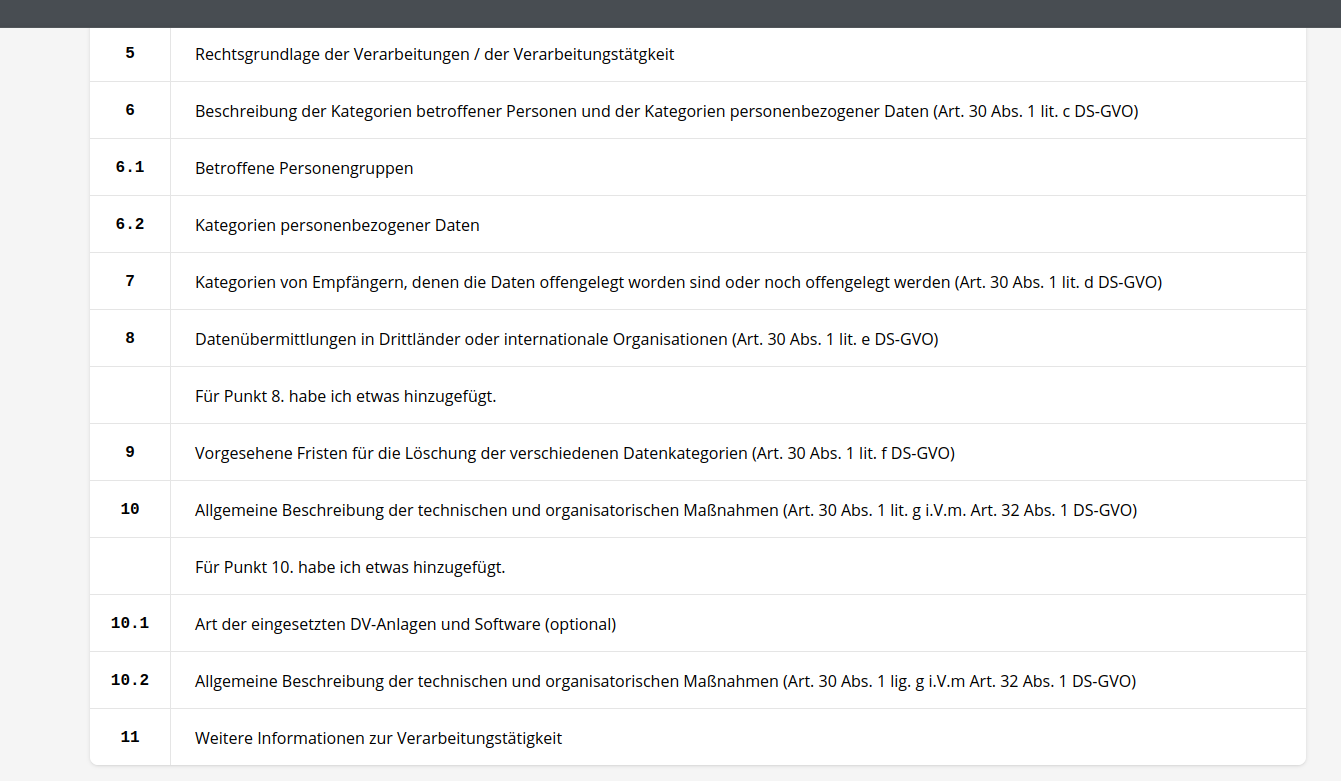
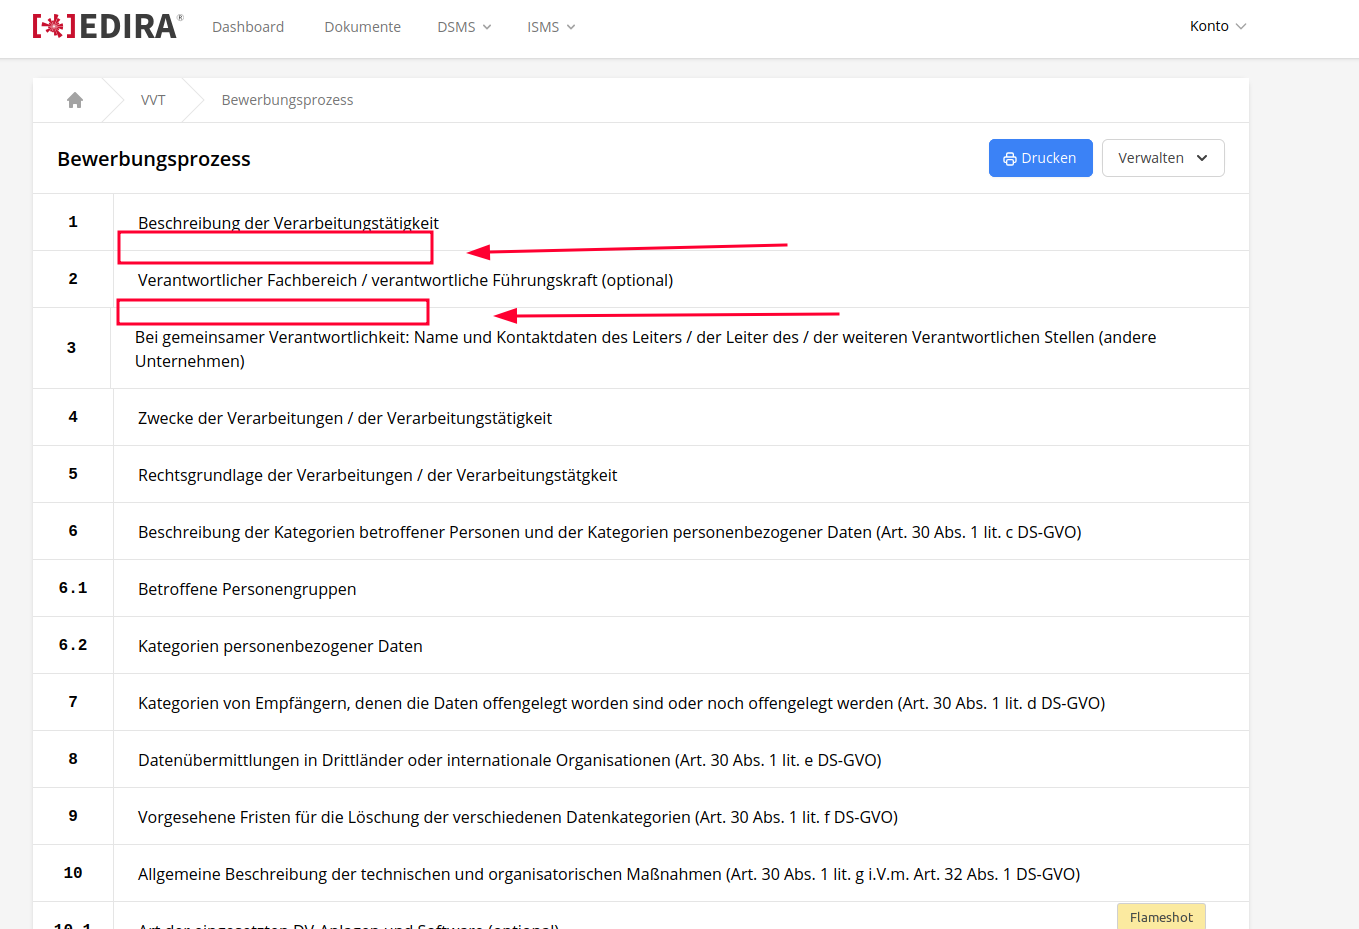
Issue 383 docs draft

diff --git a/src/edira/project-breakdown/docs/structure.md b/src/edira/project-breakdown/docs/structure.md
@@ -1,0 +1,138 @@
+# Edira Project Directory Structure
+```
+
+├── EDIRA/
+│   ├── app/                  # Contains all application-specific code
+│   │   ├── Actions/
+│   │   │   ├── Assessments/  
+│   │   │   ├── Auth/     
+│   │   │   ├── Images/
+│   │   │   ├── Iso/  
+│   │   │   ├── ItGrundschutz/     
+│   │   │   ├── Nis/  
+│   │   │   ├── Privacyreport/  
+│   │   │   ├── Soa/     
+│   │   │   ├── Tisax/ 
+│   │   │   ├── Vvt/         
+│   │   │   └── ...
+│   │   ├── Console/
+│   │   │   ├── Commands/         
+│   │   │   └── ...
+│   │   ├── Exceptions/
+│   │   │   └── ...
+│   │   ├── Helpers/
+│   │   │   └── ...
+│   │   ├── Http/
+│   │   │   ├── Controllers/  # Stores PHP controllers for routing and handling requests
+│   │   │   │   ├── Admin/
+│   │   │   │   ├── Auth/
+│   │   │   │   ├── Company/     
+│   │   │   │   ├── Export/    
+│   │   │   │   ├── Nis/         
+│   │   │   │   └── ...
+│   │   │   ├── Livewire/     # Stores Livewire components using the LivewireController trait
+│   │   │   │   ├── Admin/
+│   │   │   │   ├── Assessments/  
+│   │   │   │   ├── Auth/
+│   │   │   │   ├── Company/     
+│   │   │   │   ├── Documents/
+│   │   │   │   ├── Iso/  
+│   │   │   │   ├── ItGrundschutz/     
+│   │   │   │   ├── Nis/  
+│   │   │   │   ├── Privacyreport/  
+│   │   │   │   ├── Soa/
+│   │   │   │   ├── Settings/     
+│   │   │   │   ├── Tisax/ 
+│   │   │   │   ├── Vvt/         
+│   │   │   │   └── ...
+│   │   │   ├── Middleware/       # Stores Eloquent models for database operations
+│   │   │   │   └── ...
+│   │   │   └── ...
+│   │   ├── Listeners/
+│   │   │   └── ...
+│   │   ├── Livewire/
+│   │   │   └── Forms/   # Stores Livewire components as PHP classes (e.g., File: `MyComponent.php`)
+│   │   │       ├── Admin/
+│   │   │       └── Nis/  
+│   │   ├── Mail/
+│   │   │   ├── Nis/
+│   │   │   └── ...
+│   │   ├── Models/
+│   │   │   ├── Assessments/  
+│   │   │   ├── Iso/  
+│   │   │   ├── ItGrundschutz/     
+│   │   │   ├── Nis/
+│   │   │   ├── NisDvo/  
+│   │   │   ├── Privacyreport/  
+│   │   │   ├── Soa/     
+│   │   │   ├── Tisax/ 
+│   │   │   ├── Vvt/
+│   │   │   └── ...  
+│   │   ├── Notifications/
+│   │   │   └── ...
+│   │   ├── Policies/
+│   │   │   └── ...
+│   │   ├── Providers/
+│   │   │   └── ...
+│   │   ├── Rules/
+│   │   │   └── ...
+│   │   ├── Scopes/
+│   │   │   └── ...
+│   │   ├── Traits/
+│   │   │   ├── Livewire/     
+│   │   │   ├── Models/ 
+│   │   │   ├── Testing/
+│   │   │   └── ... 
+│   │   ├── View/
+│   │   │   ├── Charts/     
+│   │   │   ├── Layouts/ 
+│   │   │   ├── Nav/
+│   │   │   └── ... 
+│   ├── bootstrap/
+│   │   ├── cache/         
+│   │   └── ...
+│   ├── config/               # Contains application configuration files
+│   │   └── ...
+│   ├── database/             # Contains database-related files
+│   │   ├── diagrams/
+│   │   ├── factories/
+│   │   ├── migrations/
+│   │   ├── seeders/
+│   │   ├── sql/
+│   │   └── ...
+│   ├── docker/
+│   ├── overlay/
+│   ├── public/               # Contains public-facing files and directories
+│   │   ├── index.php         # The entry point of your Laravel application
+│   │   └── ...
+│   ├── resources/            # Contains assets such as CSS, JavaScript, and view files
+│   │   ├── css/
+│   │   ├── js/
+│   │   ├── lang/
+│   │   │   ├── de/ 
+│   │   │   ├── en/
+│   │   │   └── ... 
+│   │   ├── views/
+│   │   │   ├── admin/
+│   │   │   ├── auth/
+│   │   │   ├── company/  
+│   │   │   ├── components/     
+│   │   │   ├── emails/
+│   │   │   ├── layouts/  
+│   │   │   ├── livewire/     
+│   │   │   ├── nis/  
+│   │   │   ├── pdf/  
+│   │   │   ├── vendor/
+│   │   │   ├── vvtTemplates/             
+│   │   │   └── ...
+│   │   └── ...
+│   ├── routes/               # Contains route definitions for web, API, and WebSockets
+│   │   └── ...
+│   ├── storage/              # Contains application files generated during runtime
+│   │   └── ...
+│   ├── tests/                # Contains application test cases and suites for unit testing
+│   │   ├── Feature/
+│   │   ├── Unit/
+│   │   └── ...
+│   └── ...
+```

diff --git a/src/edira/issue-383/docs/documentation.md b/src/edira/issue-383/docs/documentation.md
@@ -3,3 +3,86 @@
 [Git Issue 383](https://work-documentation.jroedel-work.gitlab.io/)
 
 ## Breakdown 
+
+Auf der Übersichtsseite eines spezifischens VVT sind nur die generischen Überschriften der zu bearbeitenen Punkte sichtbar. Da diese gleich bei unterschiedlichen VVTs sind, ist gewünscht die bereits bearbeiteten und eingefügten spezifischen Daten als Vorschau mit auf der Übersichtsseite mit anzuzeigen. Dies soll zu einer leichteren Suche, Prüfung und Vervollständigung der Einträge führen. 
+
+![image info](../src/img/1.png)
+
+!!! Info
+    Alte Version, rote Markierung zeigt an, an welchen Stellen Vorschau eingebaut werden soll
+
+![image info](../src/img/2.png)
+
+!!! Info
+    Der Inhalt der Seite für einen spezifischen Bearbeitungspunkt eines VVT, der auf der Übersichtsseite angezeigt werden soll.
+
+![image info](../src/img/3.png)
+
+!!! Info
+    Wie der Inhalt platziert werden soll.
+
+## Related Files
+
+```
+.
+├── app/
+│   ├── Http/                  
+│   │   ├── Livewire/
+│   │   │   ├── Vvt/
+│   │   │   │   └── View.php  
+├── resources/
+│   ├── views/                  
+│   │   ├── livewire/
+│   │   │   ├── vvt/
+│   │   │   │   └── view.blade.php  
+
+```
+
+
+
+
+## Solution
+
+1. Component:
+
+- vvt objekt wird bereits in Livewire Component created 
+- datenbank einträge aus table 'vvt_values' ist verfügbar zu jeweiligen vvt:
+- diese enthalten row_id, welches auf die zugehörige vvt row verweist
+
+`$this -> vvt -> values`
+
+- aktuell wird nur rows object an view weitergegeben, welches nur information über die aktuell dargestellten rows besitzt 
+- values von vvt als eigenes array an view weitergeben:
+
+```php
+public function render(): \Illuminate\Contracts\View\View
+{ 
+    return view('livewire.vvt.view', ['rows' => $this->rows], ['values' => $this -> vvt -> values])
+        ->layout('layouts.app', ['title' => 'VVT Bearbeiten']);
+}
+```
+
+2. View:
+
+- aktuell gibt es for each schleife die durch row array loopt und für jeden eintrag ein html element einfügt 
+- dabei muss gecheckt werden, ob das jeweilige row element einen bereits bestehenden eintrag besitzt und anschließened dargestellt werden:
+
+```php
+@foreach ($rows as $row)
+    <a href="{{ route('dsms.vvt.rows.edit', [$vvt, $row]) }}" class="flex divide-x hover:bg-gray-100">
+        <p class="flex w-20 items-center justify-center py-4 font-mono font-semibold">{{ $row->number }}</p>
+
+        <h2 class="px-6 py-4">{{ $row->name }}</h2>
+    </a>
+
+    @foreach ($values as $value)
+        @if ($value->row_id === $row->id)
+            <div class="pl-16">
+                {{ $value->body }}
+            </div>
+        @endif
+    @endforeach
+@endforeach
+```
+## Problems
+

diff --git a/README.md b/README.md
@@ -18,6 +18,7 @@ Open the side panel menu to quickly navigate between the exercises. The document
 If you want to run it locally on your machine follow the instructions down below. 
 
 ## Project Structure 
+
 ```
 .
 ├── src/                        # All documentation files
@@ -26,7 +27,10 @@ If you want to run it locally on your machine follow the instructions down below
 │   │   │   ├── docs/           # .md documentation files
 │   │   │   └── src             # Other files
 │   │   ├── .../                # Additional setup guides
-│   ├── edira/                  # Issues I've worked on for Edira
+│   ├── edira/                  # Documentation for Edira and Issues
+│   │   ├── project-breakdown/  # Explanations like folder structure, laraval/livewire features, etc.
+│   │   │   ├── docs/           # .md documentation files
+│   │   │   └── src             # Other files
 │   │   ├── issue-XY/           # Specific issue
 │   │   │   ├── docs/           # .md documentation files
 │   │   │   └── src             # Other files

diff --git a/src/index.md b/src/index.md
@@ -31,7 +31,10 @@ If you want to run it locally on your machine follow the instructions down below
 │   │   │   ├── docs/           # .md documentation files
 │   │   │   └── src             # Other files
 │   │   ├── .../                # Additional setup guides
-│   ├── edira/                  # Issues I've worked on for Edira
+│   ├── edira/                  # Documentation for Edira and Issues
+│   │   ├── project-breakdown/  # Explanations like folder structure, laraval/livewire features, etc.
+│   │   │   ├── docs/           # .md documentation files
+│   │   │   └── src             # Other files
 │   │   ├── issue-XY/           # Specific issue
 │   │   │   ├── docs/           # .md documentation files
 │   │   │   └── src             # Other files
